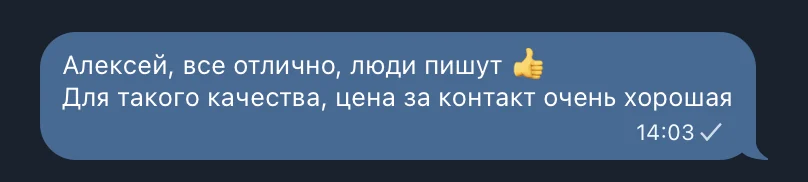
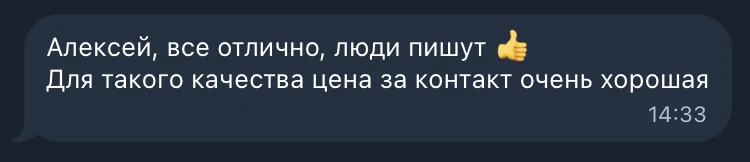
Отзывы 04 и 05 заменены на присланные варианты
Заодно поправлена подпись изображений в украинской версии.

diff --git a/ua/index.html b/ua/index.html
@@ -574,12 +574,12 @@ footer .lbl{color:#b39c83}
   <div class="wrap g">
     <h2 class="disp">Що кажуть <span class="paint it">клієнти</span></h2>
     <div class="slots">
-      <figure class="slot"><span class="tape"></span><img src="../img/reviews/r1.webp" alt="Відгук клиента в переписке" loading="lazy" width="900" height="417"><figcaption class="cap"><span>Відгук 01</span></figcaption></figure>
-      <figure class="slot"><span class="tape"></span><img src="../img/reviews/r2.webp" alt="Відгук клиента в переписке" loading="lazy" width="900" height="566"><figcaption class="cap"><span>Відгук 02</span></figcaption></figure>
-      <figure class="slot"><span class="tape"></span><img src="../img/reviews/r3.webp" alt="Відгук клиента в переписке" loading="lazy" width="900" height="199"><figcaption class="cap"><span>Відгук 03</span></figcaption></figure>
-      <figure class="slot"><span class="tape"></span><img src="../img/reviews/r4.webp" alt="Відгук клиента в переписке" loading="lazy" width="808" height="182"><figcaption class="cap"><span>Відгук 04</span></figcaption></figure>
-      <figure class="slot"><span class="tape"></span><img src="../img/reviews/r5.webp" alt="Відгук клиента в переписке" loading="lazy" width="724" height="182"><figcaption class="cap"><span>Відгук 05</span></figcaption></figure>
-      <figure class="slot"><span class="tape"></span><img src="../img/reviews/r6.webp" alt="Відгук клиента в переписке" loading="lazy" width="900" height="158"><figcaption class="cap"><span>Відгук 06</span></figcaption></figure>
+      <figure class="slot"><span class="tape"></span><img src="../img/reviews/r1.webp" alt="Відгук клієнта в листуванні" loading="lazy" width="900" height="417"><figcaption class="cap"><span>Відгук 01</span></figcaption></figure>
+      <figure class="slot"><span class="tape"></span><img src="../img/reviews/r2.webp" alt="Відгук клієнта в листуванні" loading="lazy" width="900" height="566"><figcaption class="cap"><span>Відгук 02</span></figcaption></figure>
+      <figure class="slot"><span class="tape"></span><img src="../img/reviews/r3.webp" alt="Відгук клієнта в листуванні" loading="lazy" width="900" height="199"><figcaption class="cap"><span>Відгук 03</span></figcaption></figure>
+      <figure class="slot"><span class="tape"></span><img src="../img/reviews/r4.webp" alt="Відгук клієнта в листуванні" loading="lazy" width="750" height="162"><figcaption class="cap"><span>Відгук 04</span></figcaption></figure>
+      <figure class="slot"><span class="tape"></span><img src="../img/reviews/r5.webp" alt="Відгук клієнта в листуванні" loading="lazy" width="750" height="180"><figcaption class="cap"><span>Відгук 05</span></figcaption></figure>
+      <figure class="slot"><span class="tape"></span><img src="../img/reviews/r6.webp" alt="Відгук клієнта в листуванні" loading="lazy" width="900" height="158"><figcaption class="cap"><span>Відгук 06</span></figcaption></figure>
     </div>
   </div>
 </section>

diff --git a/index.html b/index.html
@@ -577,8 +577,8 @@ footer .lbl{color:#b39c83}
       <figure class="slot"><span class="tape"></span><img src="img/reviews/r1.webp" alt="Отзыв клиента в переписке" loading="lazy" width="900" height="417"><figcaption class="cap"><span>Отзыв 01</span></figcaption></figure>
       <figure class="slot"><span class="tape"></span><img src="img/reviews/r2.webp" alt="Отзыв клиента в переписке" loading="lazy" width="900" height="566"><figcaption class="cap"><span>Отзыв 02</span></figcaption></figure>
       <figure class="slot"><span class="tape"></span><img src="img/reviews/r3.webp" alt="Отзыв клиента в переписке" loading="lazy" width="900" height="199"><figcaption class="cap"><span>Отзыв 03</span></figcaption></figure>
-      <figure class="slot"><span class="tape"></span><img src="img/reviews/r4.webp" alt="Отзыв клиента в переписке" loading="lazy" width="808" height="182"><figcaption class="cap"><span>Отзыв 04</span></figcaption></figure>
-      <figure class="slot"><span class="tape"></span><img src="img/reviews/r5.webp" alt="Отзыв клиента в переписке" loading="lazy" width="724" height="182"><figcaption class="cap"><span>Отзыв 05</span></figcaption></figure>
+      <figure class="slot"><span class="tape"></span><img src="img/reviews/r4.webp" alt="Отзыв клиента в переписке" loading="lazy" width="750" height="162"><figcaption class="cap"><span>Отзыв 04</span></figcaption></figure>
+      <figure class="slot"><span class="tape"></span><img src="img/reviews/r5.webp" alt="Отзыв клиента в переписке" loading="lazy" width="750" height="180"><figcaption class="cap"><span>Отзыв 05</span></figcaption></figure>
       <figure class="slot"><span class="tape"></span><img src="img/reviews/r6.webp" alt="Отзыв клиента в переписке" loading="lazy" width="900" height="158"><figcaption class="cap"><span>Отзыв 06</span></figcaption></figure>
     </div>
   </div>
